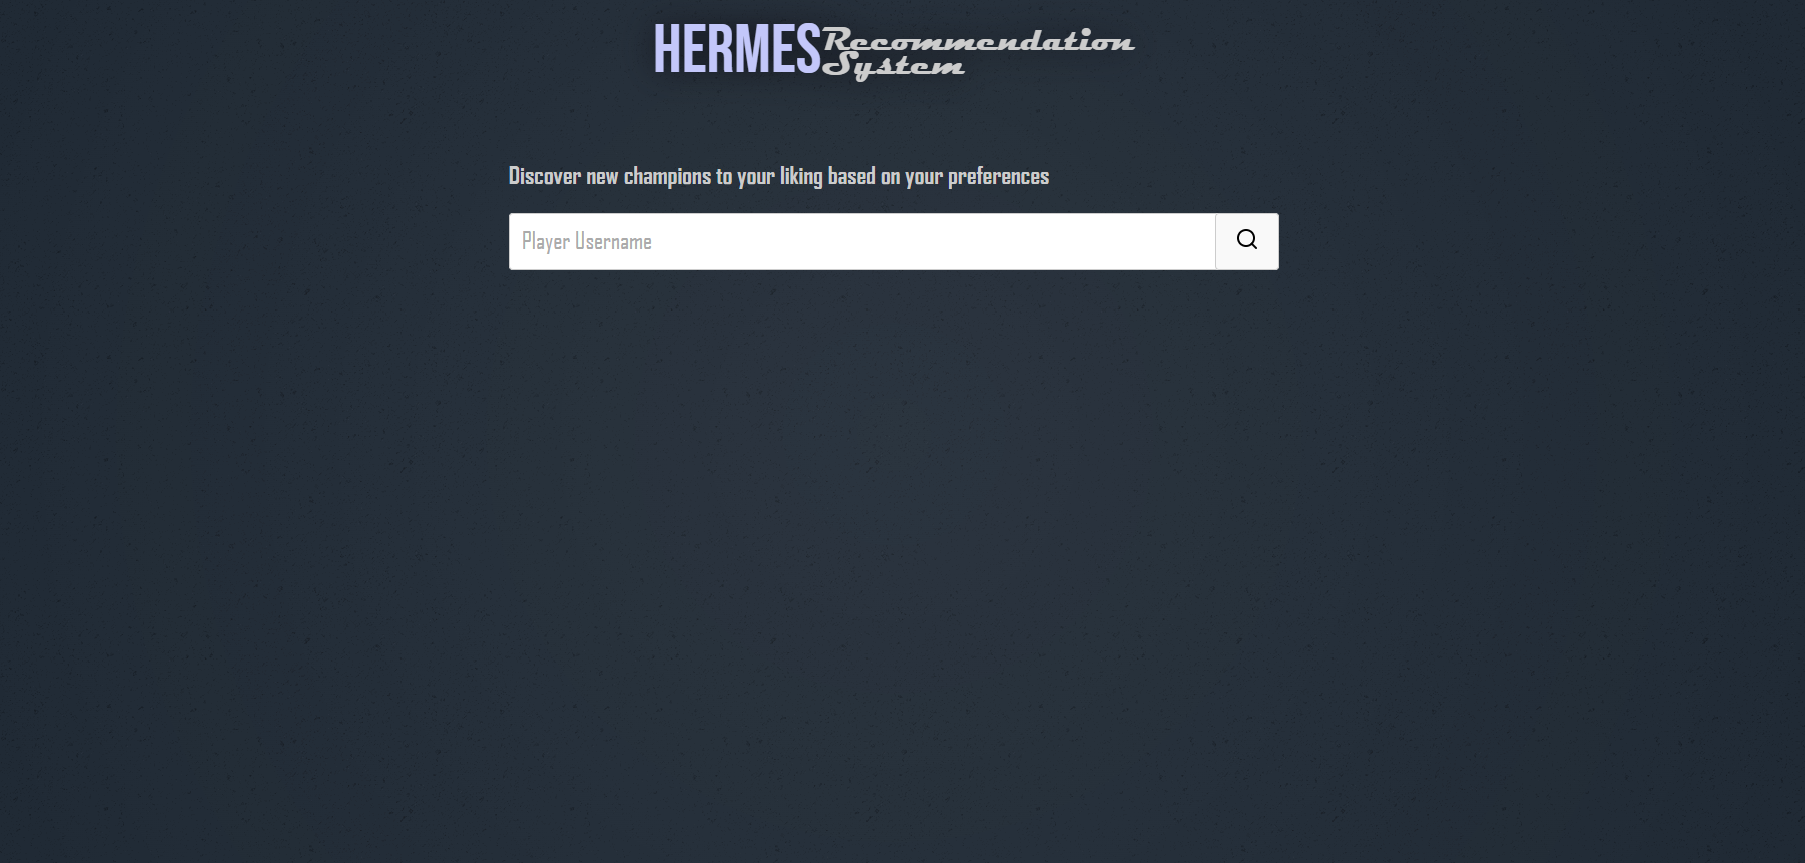
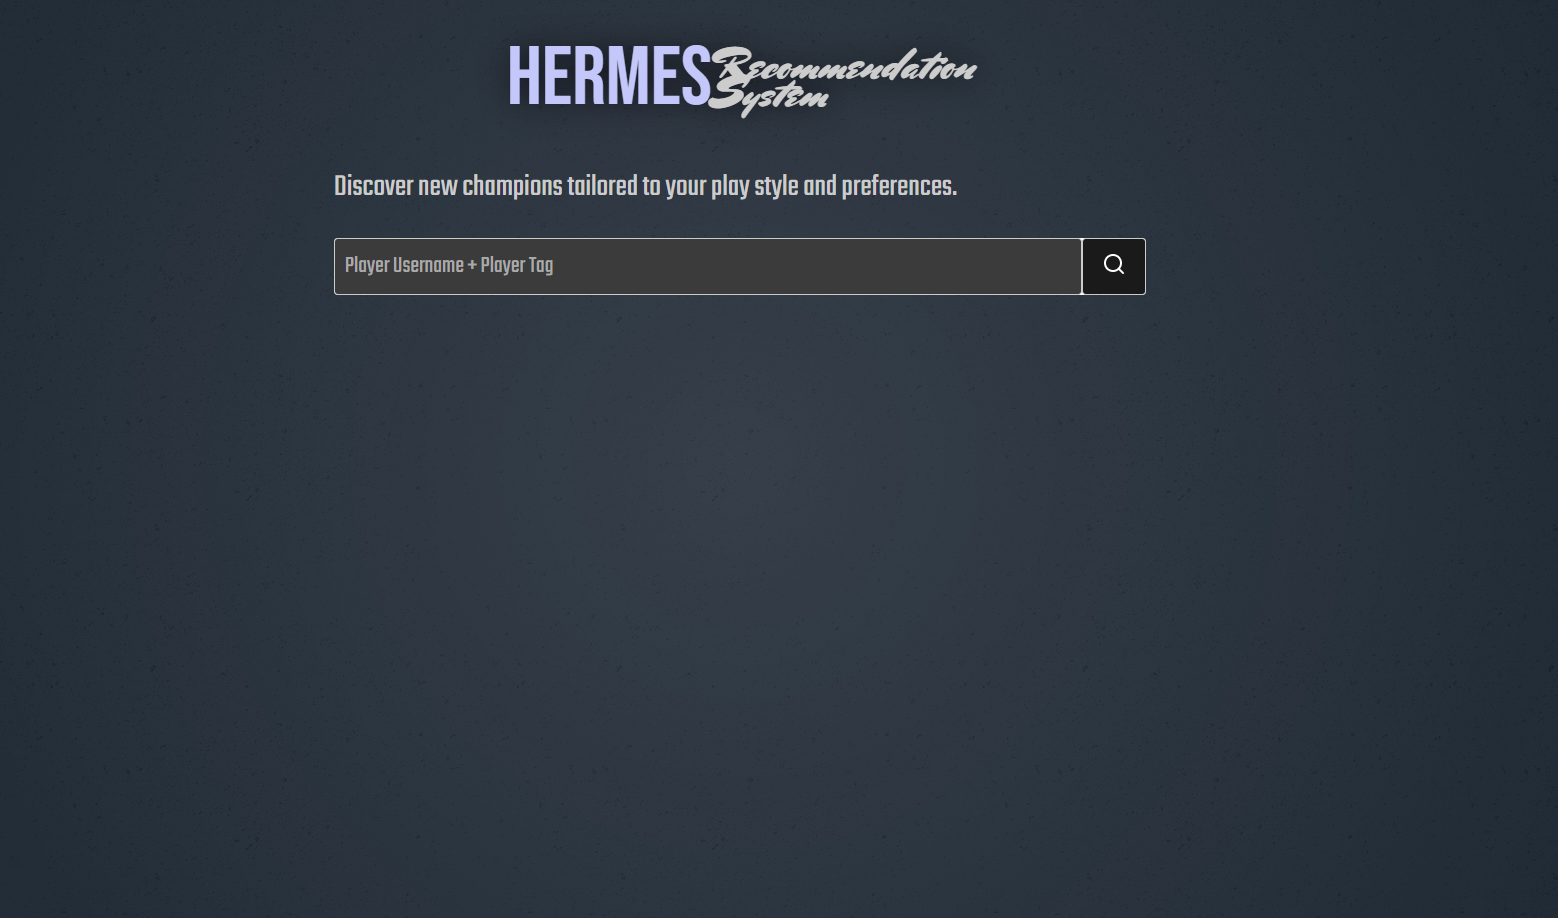
Added mobile responsiviness & fixed a font issue

Changed region(s): [[0.2157, 0.1808, 0.7394, 0.3314], [0.3081, 0.0301, 0.647, 0.1205]]

diff --git a/src/App.css b/src/App.css
@@ -8,7 +8,7 @@
   justify-content: center;
   align-items: center;
 
-  background: radial-gradient(circle, rgba(255, 255, 255, 0.05) 0%, rgba(0, 0, 0, 0) 90%),
+  background: radial-gradient(circle, rgba(255, 255, 255, 0.1) 0%, rgba(0, 0, 0, 0) 90%),
   url('https://www.transparenttextures.com/patterns/asfalt-dark.png'),
   #202a35
 
@@ -28,23 +28,24 @@
 .center-div-text1{
 
   font-family: 'Bebas Neue', sans-serif;
-  font-size: calc(2vw + 30px);
+  font-size: calc(2vw + 45px);
   color: #c3c7fa;
 }
 
 .center-div-text2{
 
-  font-family: "Magneto";
-  line-height: calc(1vw + 5px);
-  font-size: calc(1vw + 15px);
+  font-family: 'Mrs Sheppards', cursive;
+  line-height: calc(0.5vw + 18px);
+  font-size: calc(1vw + 25px);
   color: #cccccc;
 
 }
 
 .center-div-text3{
 
-  font-family: 'Agency FB';
+  font-family: 'Teko';
   color: #cccccc;
+  font-size: calc(1vw + 12px);
 
   /*align-self: flex-start;*/
 }
@@ -62,7 +63,7 @@
 
 .center-div-content {
 
-  height: 85%;
+  height: 88%;
   width: 50%;
   align-self: center;
 
@@ -70,10 +71,6 @@
   flex-direction: column;
   align-items: center;
   justify-content: space-between;
-
-}
-
-.center-div-content-text {
 
 }
 
@@ -85,9 +82,7 @@
   flex-direction: row;
   justify-content: space-between;
 
-  width: calc(25vw + 150px);
-
-
+  width: calc(25vw + 160px);
 }
 
 .center-div-content-icons {
@@ -96,8 +91,8 @@
   flex-direction: row;
   justify-content: space-between;
 
-  width: calc(7vw + 100px);
-  margin-bottom: 50px;
+  width: calc(8vw + 150px);
+  margin-bottom: 30px;
 
 }
 
@@ -106,7 +101,6 @@
   display: flex;
   flex-direction: row;
   align-items: center;
-  gap: 8px; /* Space between label and input */
   margin: 20px auto; /* Centering the input */
 
   border-radius: 4px;
@@ -117,15 +111,15 @@
 
 /* Input Styling */
 .input-custom {
-  padding: 10px 12px;
+  padding: 10px;
   font-size: 24px;
-  font-family: 'Agency FB';
+  font-family: 'Teko';
   border: 1px solid #ccc;
   border-radius: 4px;
   outline: none; /* Remove default focus outline */
   transition: border-color 0.3s, box-shadow 0.3s; /* Smooth interactions */
 
-  width: calc(20vw + 300px);
+  width: calc(30vw + 150px);
   height: 35px;
 }
 
@@ -158,7 +152,6 @@
   border: 1px solid #ccc;
   border-radius: 4px;
   transition: border-color 0.3s, box-shadow 0.3s; /* Smooth interactions */
-  margin-left: -12px;
   height: 100%;
 }
 
@@ -178,7 +171,7 @@
   width: 15px;
   height: 15px;
   border: 4px solid rgba(0, 0, 0, 0.1);
-  border-top: 4px solid black;
+  border-top: 4px solid currentColor;
   border-radius: 50%;
   animation: spin 1s linear infinite;
 }

diff --git a/src/App.jsx b/src/App.jsx
@@ -52,17 +52,16 @@ function App() {
         setTimeout(() => {
 
             setChampionsCounter(prevState => {
-                // Create a new array with the updated value
                 const newState = [...prevState];
-                newState[index] = newState[3];
 
-                if (newState[3] + 1 === suggestions.length) {
+                do {
+                    newState[index] = newState[3];
+                    newState[3] += 1;
+                    if (newState[3] >= suggestions.length) {
+                        newState[3] = 0;
+                    }
+                } while (newState.some((v, i) => i !== index && v === newState[index]));
 
-                    newState[3] = 0;
-                    return newState;
-                }
-
-                newState[3] += 1;
                 return newState;
             });
             isUpdating.current[index] = false;
@@ -110,9 +109,9 @@ function App() {
                 <div className="center-div-content">
                     { !inputFilled ? (
                         <div className="center-div-content-text">
-                            <h2 className="center-div-text3">Discover new champions to your liking based on your preferences</h2>
+                            <h2 className="center-div-text3">Discover new champions tailored to your play style and preferences.</h2>
                             <div className="input-container">
-                                <input type="text" placeholder="Player Username" className="input-custom"
+                                <input type="text" placeholder="Player Username + Player Tag" className="input-custom"
                                        value={playerName}
                                        onChange={handleNameChange}/>
                                 <button onClick={handleSend} className="input-button">
@@ -140,7 +139,8 @@ function App() {
                         </div>
                     ) : (
                         <>
-                            <h2 className="center-div-text3">Based on your 3 greatest masteries:</h2>
+
+                            <h2 className="center-div-text3">Based on your 3 highest mastery scores:</h2>
                             <div className="center-div-content-icons">
                                 <ChampionIcon champion={translateId(mastery[0][0].toString())}/>
                                 <ChampionIcon champion={translateId(mastery[1][0].toString())}/>

diff --git a/index.html b/index.html
@@ -6,6 +6,11 @@
 <!--    <link rel="icon" type="image/svg+xml" href="/vite.svg" />-->
     <meta name="viewport" content="width=device-width, initial-scale=1.0" />
     <title>Hermes</title>
+
+    <link rel="preconnect" href="https://fonts.googleapis.com">
+    <link rel="preconnect" href="https://fonts.gstatic.com" crossorigin>
+    <link href="https://fonts.googleapis.com/css2?family=Bebas+Neue&family=Mrs+Sheppards&family=Teko&display=swap" rel="stylesheet">
+
   </head>
   <body>
     <div id="root"></div>

diff --git a/src/ChampionCard/ChampionCard.css b/src/ChampionCard/ChampionCard.css
@@ -2,6 +2,8 @@
 
     display: flex;
     flex-direction: column;
+
+    align-items: center;
 }
 
 .card {
@@ -68,6 +70,7 @@
 
     font-family: "Bebas Neue";
     color: transparent;
+    margin-top: 0.5vh;
 
     align-self: center;
     user-select: none;
@@ -79,3 +82,4 @@
 
     color: whitesmoke;
 }
+

diff --git a/src/ChampionIcon/ChampionIcon.css b/src/ChampionIcon/ChampionIcon.css
@@ -1,7 +1,7 @@
 .champion-icon {
 
     position: relative;
-    width: calc(2vw + 30px);
+    width: calc(2.5vw + 50px);
 }
 
 .champion-icon img {
